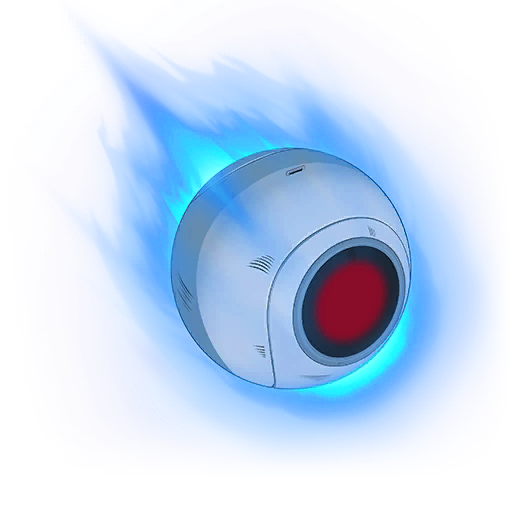
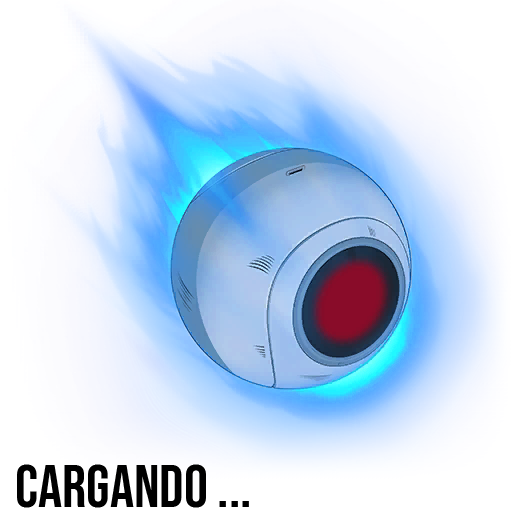
add : loader

diff --git a/src/components/MyNavBar.jsx b/src/components/MyNavBar.jsx
@@ -1,48 +1,41 @@
-import React, { useContext } from 'react'
-import Button from 'react-bootstrap/Button';
-import Container from 'react-bootstrap/Container';
-import Form from 'react-bootstrap/Form';
-import Nav from 'react-bootstrap/Nav';
-import Navbar from 'react-bootstrap/Navbar';
-import NavDropdown from 'react-bootstrap/NavDropdown';
+import React, { useContext } from "react";
 
-import {ApiContext} from '../context/ApiProvider'
+import Container from "react-bootstrap/Container";
+import radar from "../img/radarDragon.png"
+import Nav from "react-bootstrap/Nav";
+import Navbar from "react-bootstrap/Navbar";
+import NavDropdown from "react-bootstrap/NavDropdown";
+
+import { ApiContext } from "../context/ApiProvider";
 
 const MyNavBar = () => {
-  const {searchCharacter , search} = useContext(ApiContext)
-  
+  const { searchCharacter, search } = useContext(ApiContext);
+
   return (
-    <Navbar bg="light" expand="lg">
+    <Navbar bg="light" expand="lg" style={{ height: "80px", border: "none" }}>
       <Container fluid>
-        <Navbar.Brand href="#">Navbar scroll</Navbar.Brand>
+        <Navbar.Brand href="#"><img src={radar} alt="" className="radarCris" />El-RADAR.CL</Navbar.Brand>
         <Navbar.Toggle aria-controls="navbarScroll" />
-        <Navbar.Collapse id="navbarScroll">
+        <Navbar.Collapse className="centercris" id="navbarScroll">
           <Nav
-            className="me-auto my-2 my-lg-0"
-            style={{ maxHeight: '100px' }}
+            className=" mx-5 my-2 my-lg-0"
+            style={{ maxHeight: "100px" }}
             navbarScroll
           >
-            <Nav.Link href="#action1">Inicio</Nav.Link>
-            <Nav.Link href="#action2">Link</Nav.Link>
-            <NavDropdown title="Link" id="navbarScrollingDropdown">
-              <NavDropdown.Item href="#action3">Action</NavDropdown.Item>
-              <NavDropdown.Item href="#action4">
-                Another action
-              </NavDropdown.Item>
-              <NavDropdown.Divider />
-              <NavDropdown.Item href="#action5">
-                Something else here
-              </NavDropdown.Item>
-            </NavDropdown>
-            <Nav.Link href="#" disabled>
-              Link
-            </Nav.Link>
+            <input
+              type="text"
+              className=" form-control "
+              placeholder="Buscar personaje !"
+              value={search}
+              onChange={searchCharacter}
+              style={{ width: "700px", border: "none" }}
+            />
+            
           </Nav>
-          <input type="text" className=' form-control ' placeholder='Buscar personaje !' value={search} onChange={searchCharacter}/>
         </Navbar.Collapse>
       </Container>
     </Navbar>
-  )
-}
+  );
+};
 
-export default MyNavBar
+export default MyNavBar;

diff --git a/src/App.jsx b/src/App.jsx
@@ -1,10 +1,14 @@
 
 import 'bootstrap/dist/css/bootstrap.min.css';
 import "./Index.css";
-import MyCardContainer from "./components/MyCardContainer";
+import { lazy, Suspense } from 'react';
+const MyCardContainer = lazy(() => import('./components/MyCardContainer'))
 import ApiProvider from "./context/ApiProvider";
 import MyNavBar from "./components/MyNavBar";
 import MyPaginator from './components/MyPaginator';
+import MyLoader from './components/MyLoader'
+
+
 
 
 function App() {
@@ -14,10 +18,13 @@ function App() {
       <MyNavBar/>
 
     <div className="container">
+      <Suspense fallback={<MyLoader/> }>
       <MyCardContainer/>
+      </Suspense>
       <MyPaginator/>
     </div>
     </ApiProvider>
+
   
   );
 }

diff --git a/src/index.css b/src/index.css
@@ -42,6 +42,16 @@ body{
     display: none;
 }
 
+.centercris{
+    display: flex;
+    justify-content: center
+}
+
+.radarCris{
+    height: 60px;
+    padding-left: 100px;
+}
+
 .imgNoFund{
     background-image: url("./img/sinResultado.png");
     height: 600px;
@@ -72,7 +82,7 @@ body{
     align-content: flex-start;
     margin: auto;
     min-height: 20em;
-    padding: 3em 1em 1em 1em;
+    padding: 1em 1em 1em 1em;
     box-sizing: border-box;
 }
 

diff --git a/src/components/MyFooter.jsx b/src/components/MyFooter.jsx
@@ -1,0 +1,16 @@
+import React from 'react'
+
+const MyFooter = () => {
+  return (
+    <footer className="bg-light text-center text-lg-start">
+  
+  <div className="text-center p-3" >
+    © 2022 Copyright:
+    <a className="text-dark" href="https://mdbootstrap.com/">EL RADAR.cl</a>
+  </div>
+  
+</footer>
+  )
+}
+
+export default MyFooter

diff --git a/src/context/ApiProvider.jsx b/src/context/ApiProvider.jsx
@@ -50,10 +50,6 @@ const ApiProvider = (props) => {
     }
   };
 
-
-
-
-  
   const prevPage = () => {
     if (currentPage > 0) {
       setCurrentPage(currentPage - 8);
